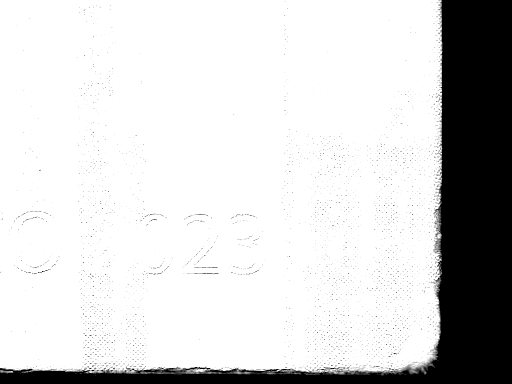
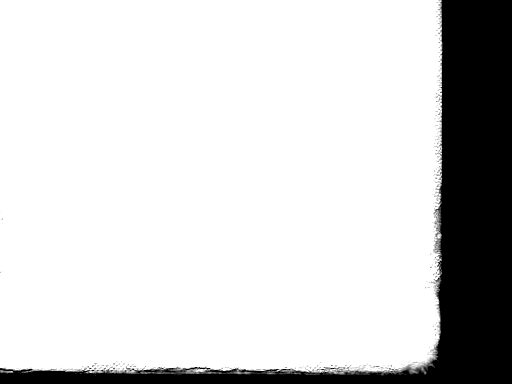
feat: guarantee full opacity inside the card
Postcards are solid card, so transparency can only enter from outside the
edge — but the guided filter could dip alpha on dark print or texture just
inside the band, leaving impossible semi-transparent specks in the card
body. Any non-opaque region unreachable from the image border is now
restored to the original, fully opaque pixels.

The hand-made ground-truth masks carried the same class of artifact from
the tool used to make them (speckled dips across the card interior; 5104
pixels in the sin-city crop), so the fixtures are cleaned by the same rule
and the guided filter radius retuned against them: ¼ of the band width now
reproduces the hand mask's fibre softness almost exactly, where the old
default — calibrated against the artifacts — over-blurred.

diff --git a/internal/matting/holes.go b/internal/matting/holes.go
@@ -1,0 +1,56 @@
+package matting
+
+import "image"
+
+// fillInteriorHoles restores full opacity to any not-fully-opaque region
+// that can't be reached from the image border through other non-opaque
+// pixels. Postcards are solid card, so real transparency only enters from
+// outside the edge; enclosed dips are matting artifacts (dark print or
+// texture near the band) and get their original pixels back.
+func fillInteriorHoles(out, src *image.NRGBA) {
+	w, h := out.Rect.Dx(), out.Rect.Dy()
+
+	const opaque = 255
+	seen := make([]bool, w*h)
+	stack := make([]int, 0, 2*(w+h))
+
+	push := func(x, y int) {
+		i := y*w + x
+		if !seen[i] && out.Pix[i*4+3] < opaque {
+			seen[i] = true
+			stack = append(stack, i)
+		}
+	}
+
+	for x := 0; x < w; x++ {
+		push(x, 0)
+		push(x, h-1)
+	}
+	for y := 0; y < h; y++ {
+		push(0, y)
+		push(w-1, y)
+	}
+
+	// 8-connected flood, matching the 4-connected foreground convention of
+	// the outline tracer (foreground 4-connected ⇒ background 8-connected)
+	for len(stack) > 0 {
+		i := stack[len(stack)-1]
+		stack = stack[:len(stack)-1]
+		x, y := i%w, i/w
+		for dy := -1; dy <= 1; dy++ {
+			for dx := -1; dx <= 1; dx++ {
+				nx, ny := x+dx, y+dy
+				if nx >= 0 && nx < w && ny >= 0 && ny < h {
+					push(nx, ny)
+				}
+			}
+		}
+	}
+
+	for i := 0; i < w*h; i++ {
+		if out.Pix[i*4+3] < opaque && !seen[i] {
+			copy(out.Pix[i*4:i*4+3], src.Pix[i*4:i*4+3])
+			out.Pix[i*4+3] = opaque
+		}
+	}
+}

diff --git a/internal/matting/holes_test.go b/internal/matting/holes_test.go
@@ -1,0 +1,40 @@
+package matting
+
+import (
+	"image"
+	"testing"
+
+	"github.com/stretchr/testify/assert"
+)
+
+func TestFillInteriorHoles(t *testing.T) {
+	const w, h = 20, 16
+	src := image.NewNRGBA(image.Rect(0, 0, w, h))
+	out := image.NewNRGBA(image.Rect(0, 0, w, h))
+	for i := 0; i < w*h; i++ {
+		src.Pix[i*4], src.Pix[i*4+1], src.Pix[i*4+2], src.Pix[i*4+3] = 200, 180, 160, 255
+
+		x, y := i%w, i/w
+		switch {
+		case x < 3: // transparent margin, connected to the border
+			out.Pix[i*4+3] = 0
+		case x == 3: // soft fibre edge, connected to the margin
+			out.Pix[i*4+3] = 120
+		case x == 10 && y == 8: // enclosed semi-transparent speck
+			out.Pix[i*4+3] = 90
+		case x >= 14 && x <= 15 && y >= 4 && y <= 5: // enclosed transparent blob
+			out.Pix[i*4+3] = 0
+		default:
+			out.Pix[i*4], out.Pix[i*4+1], out.Pix[i*4+2], out.Pix[i*4+3] = 200, 180, 160, 255
+		}
+	}
+
+	fillInteriorHoles(out, src)
+
+	alphaAt := func(x, y int) uint8 { return out.Pix[(y*w+x)*4+3] }
+	assert.EqualValues(t, 0, alphaAt(1, 8), "border-connected margin stays transparent")
+	assert.EqualValues(t, 120, alphaAt(3, 8), "soft edge connected to the outside stays soft")
+	assert.EqualValues(t, 255, alphaAt(10, 8), "enclosed speck becomes opaque")
+	assert.EqualValues(t, 255, alphaAt(14, 4), "enclosed blob becomes opaque")
+	assert.EqualValues(t, 200, out.Pix[(8*w+10)*4], "filled pixels get original colour back")
+}

diff --git a/internal/matting/matting.go b/internal/matting/matting.go
@@ -50,10 +50,10 @@ func Apply(img image.Image, mask []bool, opts Options) (*image.NRGBA, error) {
 		return nil, fmt.Errorf("BandHalfWidthPx must be positive")
 	}
 	if opts.GuidedRadiusPx <= 0 {
-		// ~⅔ of the band width recovers hand-mask-level fibre softness on
+		// ~¼ of the band width recovers hand-mask-level fibre softness on
 		// torn edges without over-feathering die-cut ones (tuned against the
 		// ground-truth fixtures; see sweep_test.go).
-		opts.GuidedRadiusPx = max(2, opts.BandHalfWidthPx*2/3)
+		opts.GuidedRadiusPx = max(2, opts.BandHalfWidthPx/4)
 	}
 	if opts.Eps <= 0 {
 		opts.Eps = defaultEps
@@ -105,6 +105,8 @@ func Apply(img image.Image, mask []bool, opts Options) (*image.NRGBA, error) {
 			matteTile(src, out, tm, mask, core, padded, opts, bgRadius, bgMean, debugAlpha)
 		}
 	}
+
+	fillInteriorHoles(out, src)
 
 	if debugDir != "" {
 		if err := dumpDebug(debugDir, tm, debugAlpha, out); err != nil {